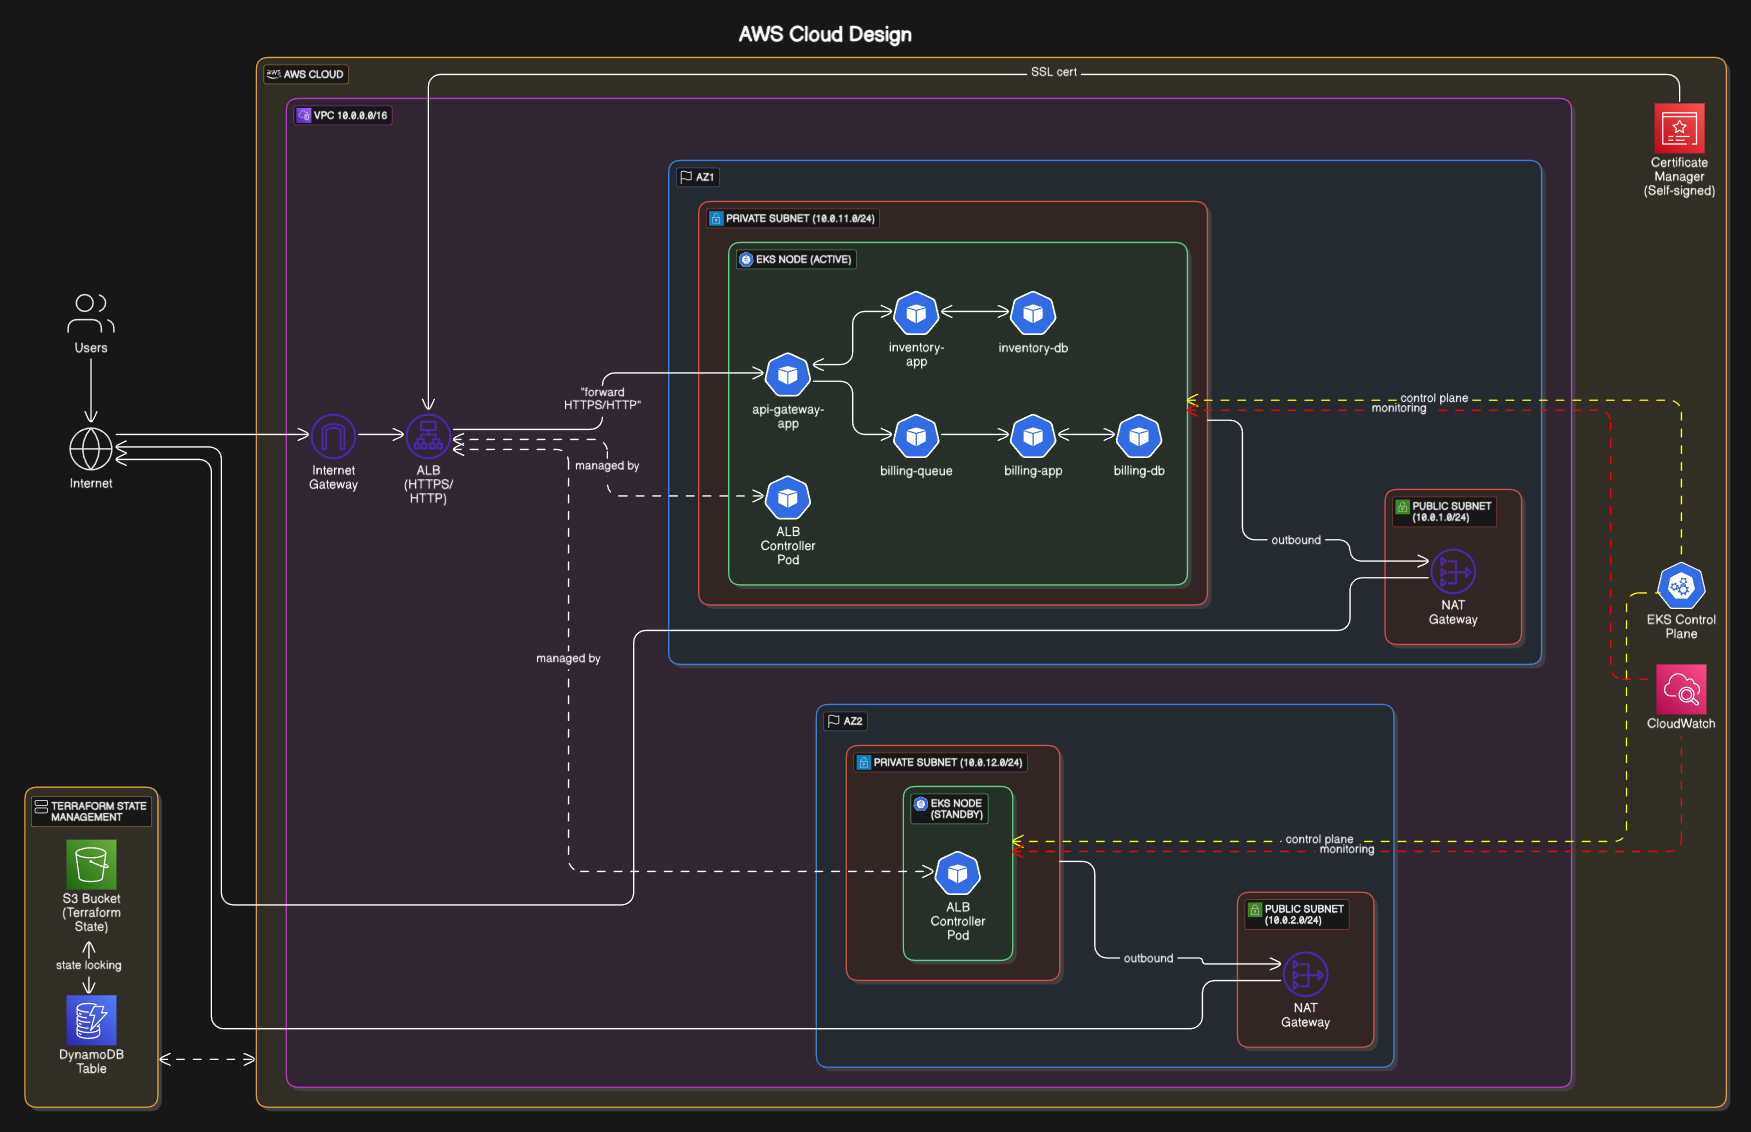
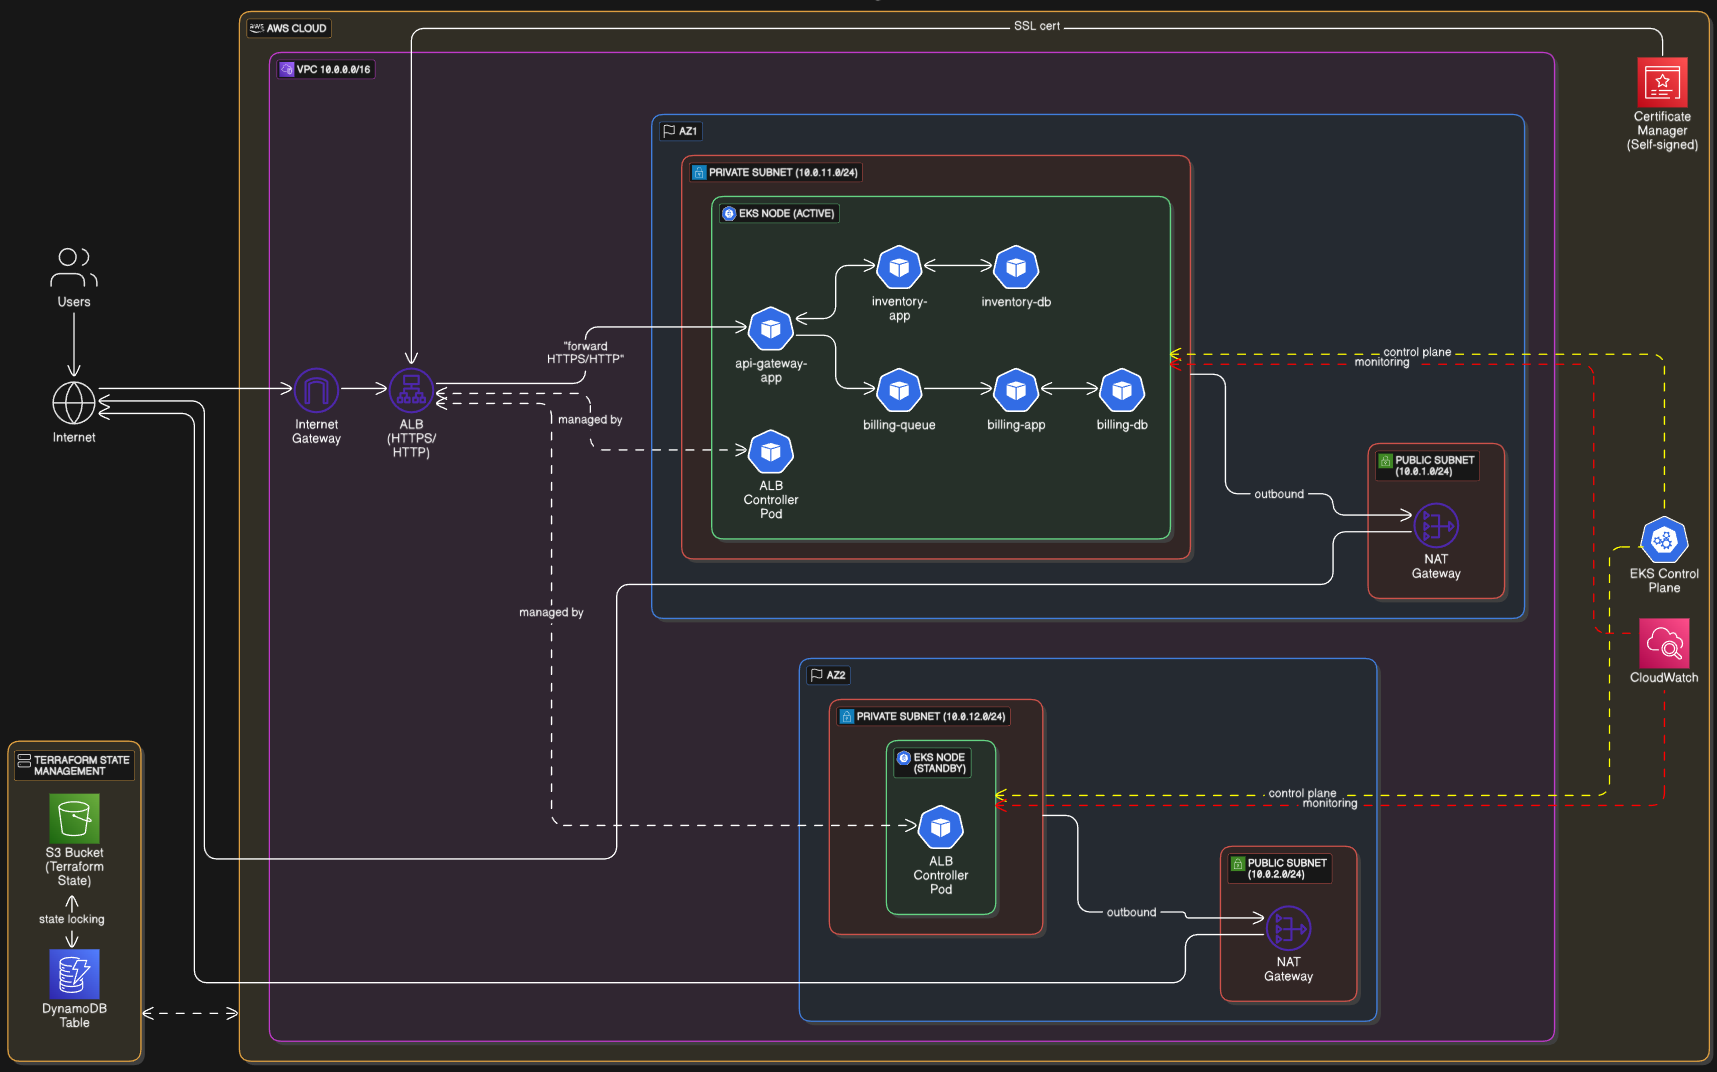
Update README.md

Changed region(s): [[0.0, 0.0, 1.0, 1.0], [0.3395, 0.7388, 0.3704, 0.8004]]

diff --git a/README.md b/README.md
@@ -4,6 +4,7 @@
 
 A cloud-native microservices architecture deployed on AWS EKS (Elastic Kubernetes Service), designed for high availability, scalability, and security, with fully automated CI/CD pipelines using self-hosted GitLab.
 
+**Diagram of AWS resources for the production environment.**
 ![Architecture Diagram](./images/diagram.png)
 
 ## Project Overview
@@ -76,7 +77,11 @@ Successful API test results from Postman showing the Movie CRUD operations worki
 
 ### Infrastructure (AWS)
 
-- **VPC**: Custom VPC (10.0.0.0/16) spanning multiple availability zones
+- **Separate Environments**:
+  - **Staging**: Complete EKS cluster in its own VPC.
+  - **Production**: Separate EKS cluster in its own VPC.
+  - Each environment is completely isolated with identical architecture, but different resource configurations
+- **VPC**: Custom VPC spanning multiple availability zones for each environment
 - **EKS Cluster**: Managed Kubernetes with nodes in private subnets
 - **Multi-AZ Setup**: Resources distributed across eu-north-1a and eu-north-1b for high availability
 - **Load Balancing**: Application Load Balancer with HTTPS support
@@ -236,11 +241,17 @@ cp .env.example .env
 docker-compose up -d
 ```
 
-Wait for GitLab to start (this may take a few minutes). Access the GitLab UI at http://localhost (or your configured URL) and set your initial admin password.
+Wait for GitLab to start (this may take a few minutes). Access the GitLab UI at http://192.168.56.10 (or your configured URL). Do not set base url as `http://localhost`. It messes up Docker container communication.
+
+- Initial password can be obtained from `config` folder.
+
+```bash
+cat config/initial_root_password
+```
 
 #### 2. Configure Ansible for GitLab Setup
 
-Configure your GitLab API token and other variables:
+Configure your GitLab API token and other variables.
 
 ```bash
 cd ansible
@@ -249,24 +260,82 @@ cp group_vars/vault.yml.example group_vars/vault.yml
 # Edit the .yml files to add your GitLab token and other variables
 ```
 
-#### 3. Run the GitLab Setup Playbook
+Be sure to encrypt the `vault.yml`.
 
 ```bash
-cd ansible
-ansible-playbook gitlab_setup.yml
+ansible-vault encrypt group_vars/vault.yml
 ```
 
-This will:
+#### 3. Setup a Python virtual environment to run Ansible
 
-- Create repositories for each service
-- Configure CI/CD variables
-- Set up webhooks and access permissions
-- Initialize repositories with code and CI/CD configuration
+While in `/ansible` folder, create a virtual environment
 
-#### 4. Set up Infrastructure
+```bash
+python3.13 -m venv ~/.ansible-venv
+~/.ansible_venv/bin/activate
+```
 
-- Rename `/terraform/terraform.tfvars.example` to `/terraform/terraform.tfvars` and fill it with information.
-- For testing, `t3.medium` instance can be used. It allows just enough pods to run the project on minimum load. `t3.large` is needed for full load.
+Install dependencies
+
+```bash
+pip install ansible python-gitlab
+```
+
+Export the interpreter path in your playbook's `inventory/localhost`
+
+```bash
+[local]
+localhost ansible_connection=local
+```
+
+#### 4. Set up S3 Terraform state backend
+
+Configure and fill `tfstate` variables for backend:
+
+```bash
+cp terraform.tfvars.example terraform.tfvars
+```
+
+Ensure your AWS IAM user has the following permissions:
+
+```json
+{
+  "Version": "2012-10-17",
+  "Statement": [
+    {
+      "Sid": "SetupIAM",
+      "Effect": "Allow",
+      "Action": [
+        "iam:GetUser",
+        "iam:CreatePolicy",
+        "iam:GetPolicy",
+        "iam:GetPolicyVersion",
+        "iam:AttachUserPolicy",
+        "iam:ListAttachedUserPolicies",
+        "iam:ListPolicyVersions",
+        "iam:DetachUserPolicy",
+        "iam:DeletePolicy",
+        "iam:DeletePolicyVersion",
+        "iam:CreatePolicyVersion",
+        "iam:UpdateAssumeRolePolicy",
+        "iam:ListAttachedGroupPolicies",
+        "iam:CreateGroup",
+        "iam:GetGroup",
+        "iam:DeleteGroup",
+        "iam:AddUserToGroup",
+        "iam:AttachGroupPolicy",
+        "iam:ListGroupsForUser",
+        "iam:DetachGroupPolicy",
+        "iam:RemoveUserFromGroup",
+        "iam:UpdateGroup",
+        "iam:ListEntitiesForPolicy",
+        "iam:ListPolicies"
+      ],
+      "Resource": "*"
+    }
+  ]
+}
+```
 
 a. **Initialize Terraform state backend**:
 
@@ -276,33 +345,47 @@ terraform init
 terraform apply
 ```
 
-b. **Deploy main infrastructure**:
+#### 5. Run the GitLab Setup Playbook
 
 ```bash
-cd ..
-terraform init
-terraform apply
+ansible-playbook -i inventory/localhost gitlab_setup.yml --ask-vault-pass
 ```
 
-c. **Configure kubectl and Helm**:
+This will:
 
-```bash
-./scripts/configure-kubectl-helm.sh
-```
+- Create repositories for each service
+- Configure CI/CD variables
+- Set up webhooks and access permissions
+- Initialize repositories with code and CI/CD configuration
 
-#### 5. Use the CI/CD Pipeline or Deploy Manually
+#### 6. Use the CI/CD Pipeline to deploy everything
 
-CI/CD will automatically deploy changes when you push to the repositories. You want to pause microservice pipelines and let the infrastructure pipeline run first to set everything up.
+CI/CD will automatically deploy changes when you push to the repositories.
+
+**You want to pause/cancel microservice pipelines and let the infrastructure pipeline run first to set everything up.**
 
 ## CI/CD Pipeline Details
 
-### Pipeline Stages
+The project uses two distinct pipeline types:
 
-1. **Build**: Compiles code, runs linting, and unit tests
-2. **Test**: Runs integration test. Just a simulated step. No actual tests currently.
-3. **Deploy to Staging**: Automatic deployment to staging environment
-4. **Manual Approval**: Required before production deployment
-5. **Deploy to Production**: Deployment to production environment
+### Service Pipeline Stages (API Gateway, Inventory, Billing)
+
+1. **Build**: Compiles the application code using Node.js, installs dependencies via npm, and runs a verification script to ensure all dependencies are installed correctly.
+2. **Test**: Executes the test suite for the service.
+3. **Scan**: Performs code quality analysis using tools like JShint and runs security scans (SAST) to identify potential vulnerabilities in the codebase.
+4. **Containerize**: Builds Docker container images, tags them with the commit SHA and 'latest', authenticates with Docker Hub, and pushes the images to the repository.
+5. **Deploy to Staging**: Configures kubectl to connect to the staging EKS cluster, creates necessary Kubernetes secrets from CI variables, and deploys the application with persistent volumes.
+6. **Approval**: Adds a manual approval gate that requires explicit authorization before the production deployment can proceed.
+7. **Deploy to Production**: Similar to staging deployment but targets the production EKS cluster and namespace, using production-specific environment variables and secrets.
+
+### Infrastructure Pipeline Stages (Terraform)
+
+1. **Init**: Initializes Terraform with the proper backend configuration for state management, dynamically generates environment-specific tfvars files, and prepares the working directory.
+2. **Validate**: Performs syntax validation on Terraform files, runs `terraform fmt` to check formatting, and checks for potential hardcoded secrets in the codebase.
+3. **Plan**: Creates and displays an execution plan for the staging environment infrastructure changes, showing what resources would be created, modified, or destroyed.
+4. **Apply Staging**: Applies the approved plan to the staging environment, configures kubectl to connect to the EKS cluster, and creates necessary Kubernetes resources like namespaces and ingress.
+5. **Approval**: Implements a manual approval gate requiring explicit authorization before any changes can be applied to the production infrastructure.
+6. **Apply Production**: Plans and applies changes to the production environment, similarly configuring kubectl, setting up the production namespace, and applying ingress configurations to the production cluster.
 
 ### Repository Structure
 
@@ -312,7 +395,6 @@ Each service repository created by the Ansible playbook includes:
 - Dockerfile for containerization
 - CI/CD configuration (.gitlab-ci.yml)
 - Kubernetes manifests for deployment
-- Documentation and README files
 
 ## API Documentation
 
@@ -353,16 +435,12 @@ To clean up resources:
 
 1. **Remove application resources**:
 
-   ```bash
-   ./scripts/cleanup-k8s-resources.sh
-   ```
+   Done via Infrastructure pipeline. Run `cleanup-prod` and then `cleanup-staging`. <br>Pipeline cleans up all the Kubernetes resources before using `terraform destroy`.<br> No AWS resources should stay up when jobs finish.
 
-2. **Destroy infrastructure**:
+2. **Destroy S3 Terraform State backend**:
+   While in `terraform/bootstrap` directory, run:
 
    ```bash
-   cd terraform
-   terraform destroy
-   cd bootstrap
    terraform destroy
    ```
 
@@ -393,12 +471,10 @@ To clean up resources:
 - **Custom Domain**: Register a custom domain name to replace the self-signed certificate with a properly validated AWS ACM certificate
 - **Amazon CloudFront**: Add CloudFront content delivery network (CDN) for faster content delivery
 - **AWS WAF Integration**: Add AWS Web Application Firewall for additional protection against common exploits
-- **Secret Management**: Migrate from Kubernetes Secrets to AWS Secrets Manager or HashiCorp Vault
 
 ### CI/CD Improvements
 
 - **Automated Rollbacks**: Add automated rollback capability if deployments fail
-- **Canary Releases**: Implement canary deployment strategy for gradual rollouts
 - **Extended Test Coverage**: Add performance and security testing to the CI/CD pipeline
 
 ## License
